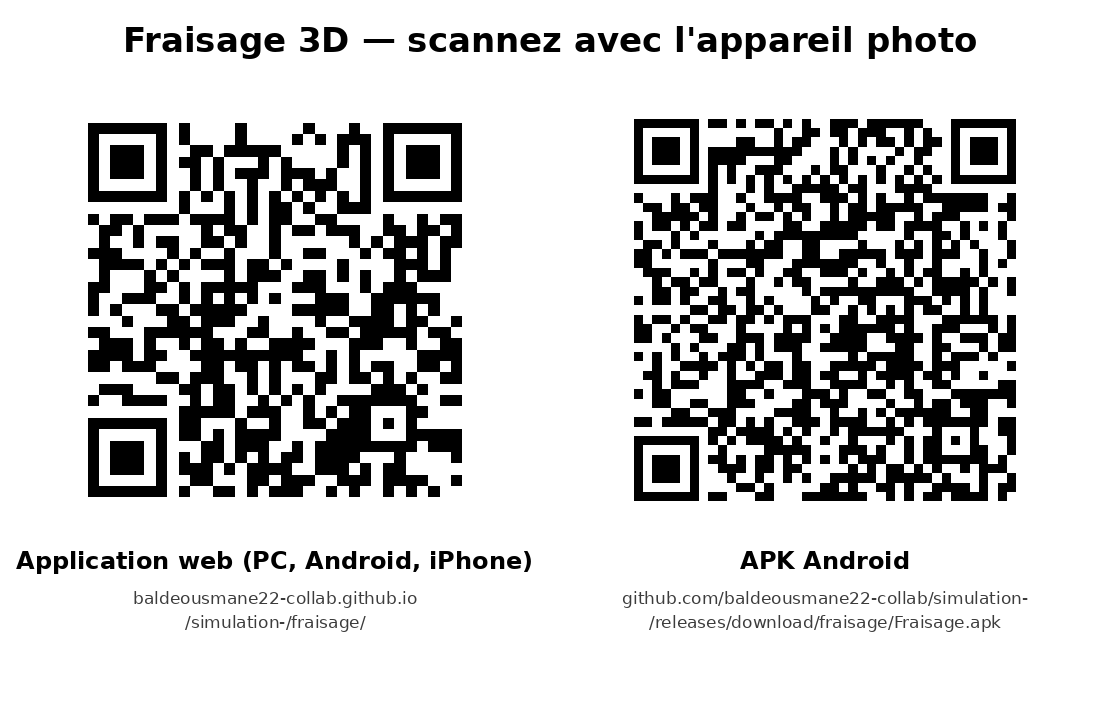
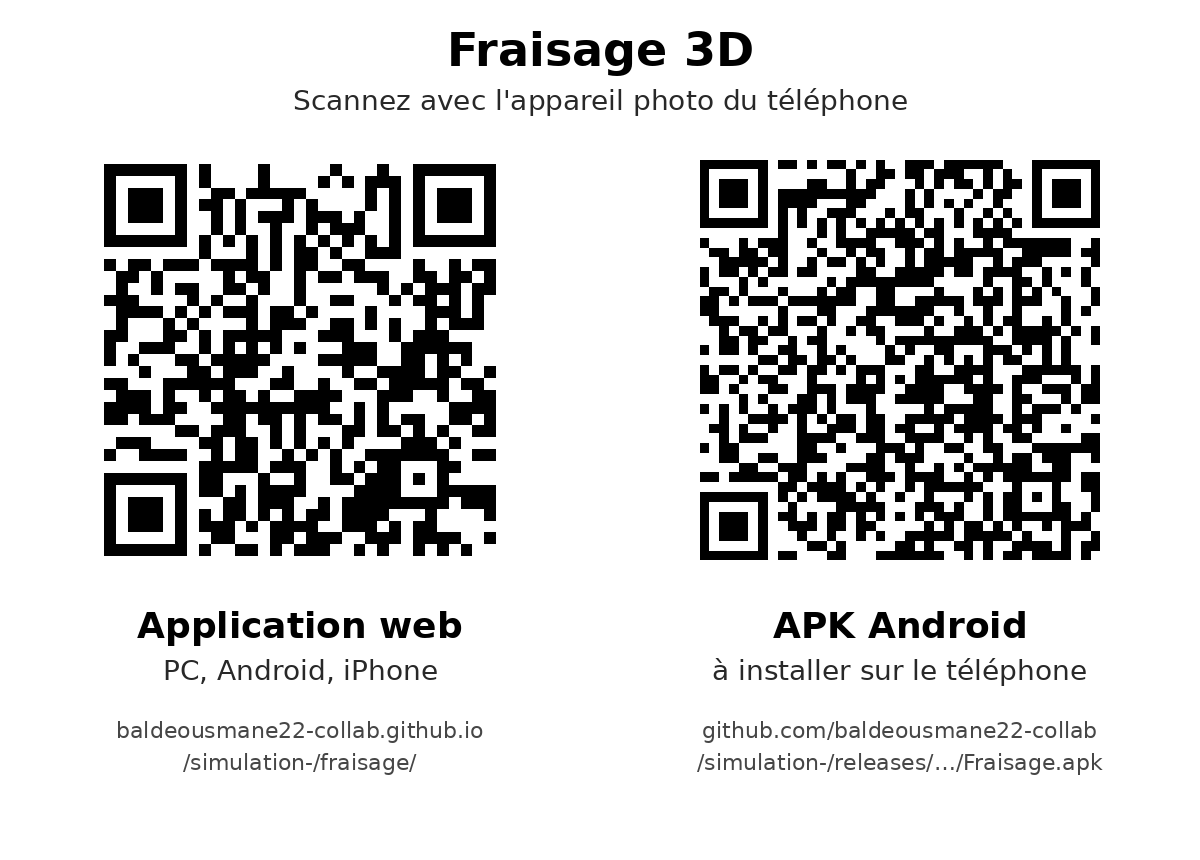
Fraisage 3D : écritures agrandies (appli et QR codes), onglets ajustés sur téléphone
Claude-Session: https://claude.ai/code/session_01Mm1yvHafnPzbhXEF8QHtrN

Changed region(s): [[0.0, 0.0306, 0.9273, 0.7944], [0.5564, 0.825, 0.9273, 0.9167], [0.0927, 0.825, 0.4018, 0.9167]]

diff --git a/fraisage/css/style.css b/fraisage/css/style.css
@@ -4,15 +4,15 @@
 }
 * { box-sizing: border-box; }
 html, body { margin: 0; height: 100%; background: var(--fond); color: var(--texte);
-  font: 15px/1.45 system-ui, -apple-system, "Segoe UI", Roboto, sans-serif; }
+  font: 16.5px/1.45 system-ui, -apple-system, "Segoe UI", Roboto, sans-serif; }
 body { display: flex; flex-direction: column; height: 100dvh; overflow: hidden; }
 button { font: inherit; color: inherit; cursor: pointer; }
 
 .entete { background: var(--fond2); border-bottom: 1px solid var(--bord); padding: 6px 10px 0; padding-top: max(6px, env(safe-area-inset-top)); flex: none; }
-.titre { font-weight: 700; font-size: 17px; display: flex; align-items: center; gap: 6px; }
-.titre small { color: var(--doux); font-weight: 500; font-size: 12px; margin-left: 4px; }
+.titre { font-weight: 700; font-size: 18.5px; display: flex; align-items: center; gap: 6px; }
+.titre small { color: var(--doux); font-weight: 500; font-size: 13.5px; margin-left: 4px; }
 .types { display: flex; gap: 6px; overflow-x: auto; padding: 6px 0 8px; scrollbar-width: thin; }
-.types button { flex: none; background: var(--carte); border: 1px solid var(--bord); border-radius: 999px; padding: 5px 11px; font-size: 13px; white-space: nowrap; }
+.types button { flex: none; background: var(--carte); border: 1px solid var(--bord); border-radius: 999px; padding: 5px 11px; font-size: 14.5px; white-space: nowrap; }
 .types button.actif { background: var(--accent); border-color: var(--accent); color: #111; font-weight: 700; }
 
 .disposition { flex: 1; display: flex; min-height: 0; }
@@ -20,82 +20,82 @@ button { font: inherit; color: inherit; cursor: pointer; }
 #canvas3d { width: 100%; height: 100%; display: block; touch-action: none; }
 .calque-etiq { position: absolute; inset: 0; pointer-events: none; overflow: hidden; }
 .etiq3d { position: absolute; left: 0; top: 0; background: rgba(15, 23, 42, .85); border: 1px solid #475569; border-radius: 6px;
-  padding: 2px 7px; font-size: 12px; white-space: nowrap; will-change: transform; }
+  padding: 2px 7px; font-size: 13.5px; white-space: nowrap; will-change: transform; }
 .etiq3d.menant { border-color: var(--accent); color: #fde68a; }
 .etiq3d.mene { border-color: var(--bleu); color: #bfdbfe; }
 .etiq3d.trois { border-color: var(--vert); color: #bbf7d0; }
 .etiq3d.quatre { border-color: var(--violet); color: #e9d5ff; }
-.nom-type { position: absolute; left: 10px; top: 8px; font-weight: 700; font-size: 15px; text-shadow: 0 1px 3px #000; pointer-events: none; max-width: calc(100% - 190px); }
+.nom-type { position: absolute; left: 10px; top: 8px; font-weight: 700; font-size: 16.5px; text-shadow: 0 1px 3px #000; pointer-events: none; max-width: calc(100% - 190px); }
 .outils { position: absolute; right: 8px; top: 8px; display: flex; gap: 6px; }
-.btn-rond { width: 38px; height: 38px; border-radius: 50%; border: 1px solid var(--bord); background: rgba(22, 33, 59, .9); font-size: 17px; }
+.btn-rond { width: 38px; height: 38px; border-radius: 50%; border: 1px solid var(--bord); background: rgba(22, 33, 59, .9); font-size: 18.5px; }
 .btn-rond[aria-pressed="false"] { opacity: .5; }
 .hud { position: absolute; left: 10px; top: 34px; display: flex; flex-direction: column; gap: 3px; pointer-events: none; }
-.hud div { background: rgba(15, 23, 42, .78); border-radius: 6px; padding: 2px 8px; font-size: 12.5px; width: max-content; max-width: 70vw; }
+.hud div { background: rgba(15, 23, 42, .78); border-radius: 6px; padding: 2px 8px; font-size: 14px; width: max-content; max-width: 70vw; }
 .hud b { color: #fde68a; }
-.vitesse { position: absolute; right: 10px; bottom: 30px; background: rgba(15, 23, 42, .8); border-radius: 999px; padding: 3px 10px; display: flex; align-items: center; gap: 4px; font-size: 14px; }
+.vitesse { position: absolute; right: 10px; bottom: 30px; background: rgba(15, 23, 42, .8); border-radius: 999px; padding: 3px 10px; display: flex; align-items: center; gap: 4px; font-size: 15.5px; }
 .vitesse input { width: 110px; accent-color: var(--accent); }
-.aide3d { position: absolute; left: 0; right: 0; bottom: 6px; text-align: center; font-size: 11px; color: var(--doux); pointer-events: none; }
+.aide3d { position: absolute; left: 0; right: 0; bottom: 6px; text-align: center; font-size: 12.5px; color: var(--doux); pointer-events: none; }
 .info3d { position: absolute; left: 10px; bottom: 30px; max-width: min(320px, 60%); background: rgba(15, 23, 42, .93); border: 1px solid var(--accent);
-  border-radius: 8px; padding: 7px 10px; font-size: 13px; }
+  border-radius: 8px; padding: 7px 10px; font-size: 14.5px; }
 .info3d b { color: #fde68a; display: block; }
 
 .panneau { width: 430px; flex: none; display: flex; flex-direction: column; border-left: 1px solid var(--bord); background: var(--fond2); min-height: 0; }
 .onglets { display: flex; overflow-x: auto; border-bottom: 1px solid var(--bord); flex: none; scrollbar-width: none; }
-.onglets button { flex: 1 0 auto; background: none; border: 0; border-bottom: 3px solid transparent; padding: 9px 9px; font-size: 13px; white-space: nowrap; color: var(--doux); }
+.onglets button { flex: 1 0 auto; background: none; border: 0; border-bottom: 3px solid transparent; padding: 9px 9px; font-size: 14.5px; white-space: nowrap; color: var(--doux); }
 .onglets button.actif { color: var(--texte); border-color: var(--accent); font-weight: 700; }
 .contenu { flex: 1; overflow-y: auto; padding: 10px 12px 30px; -webkit-overflow-scrolling: touch; padding-bottom: max(30px, env(safe-area-inset-bottom)); }
 .page { display: none; }
 .page.actif { display: block; }
-h3 { font-size: 15px; margin: 14px 0 6px; color: #fde68a; }
-.note { color: var(--doux); font-size: 12.5px; margin: 4px 0 8px; }
+h3 { font-size: 16.5px; margin: 14px 0 6px; color: #fde68a; }
+.note { color: var(--doux); font-size: 14px; margin: 4px 0 8px; }
 .btn { background: var(--carte); border: 1px solid var(--bord); border-radius: 8px; padding: 7px 12px; margin: 10px 6px 0 0; }
 .btn.prim { background: var(--accent); border-color: var(--accent); color: #111; font-weight: 700; }
 
 .param { background: var(--carte); border: 1px solid var(--bord); border-radius: 10px; padding: 7px 10px; margin-bottom: 7px; }
-.param label { display: flex; justify-content: space-between; gap: 8px; font-size: 13px; color: var(--doux); }
+.param label { display: flex; justify-content: space-between; gap: 8px; font-size: 14.5px; color: var(--doux); }
 .param label span:last-child { color: var(--texte); font-weight: 700; white-space: nowrap; }
 .param .ligne { display: flex; align-items: center; gap: 8px; margin-top: 4px; }
 .param input[type=range] { flex: 1; accent-color: var(--accent); height: 26px; }
 .param input[type=number], .param select { width: 84px; background: var(--fond); color: var(--texte); border: 1px solid var(--bord); border-radius: 6px; padding: 4px 6px; font: inherit; }
 .param select { width: 100%; }
-.alerte { background: rgba(239, 68, 68, .12); border: 1px solid rgba(239, 68, 68, .5); border-radius: 8px; padding: 7px 10px; margin: 6px 0; font-size: 13px; }
+.alerte { background: rgba(239, 68, 68, .12); border: 1px solid rgba(239, 68, 68, .5); border-radius: 8px; padding: 7px 10px; margin: 6px 0; font-size: 14.5px; }
 .resume { display: grid; grid-template-columns: 1fr 1fr; gap: 6px; }
-.resume div { background: var(--carte); border: 1px solid var(--bord); border-radius: 8px; padding: 6px 8px; font-size: 12px; color: var(--doux); }
-.resume b { display: block; color: var(--texte); font-size: 15px; }
+.resume div { background: var(--carte); border: 1px solid var(--bord); border-radius: 8px; padding: 6px 8px; font-size: 13.5px; color: var(--doux); }
+.resume b { display: block; color: var(--texte); font-size: 16.5px; }
 
-.tab-calc { width: 100%; border-collapse: collapse; font-size: 13px; }
-.tab-calc th { text-align: left; background: #1e293b; color: #fde68a; padding: 6px 8px; font-size: 13px; }
+.tab-calc { width: 100%; border-collapse: collapse; font-size: 14.5px; }
+.tab-calc th { text-align: left; background: #1e293b; color: #fde68a; padding: 6px 8px; font-size: 14.5px; }
 .tab-calc td { padding: 5px 8px; border-bottom: 1px solid var(--bord); vertical-align: top; }
-.tab-calc .g { color: var(--doux); font-size: 12px; }
+.tab-calc .g { color: var(--doux); font-size: 13.5px; }
 .tab-calc .f { font-family: ui-monospace, Consolas, monospace; color: #93c5fd; }
-.tab-calc .an { color: var(--doux); font-size: 12px; }
+.tab-calc .an { color: var(--doux); font-size: 13.5px; }
 .tab-calc .r { font-weight: 700; white-space: nowrap; text-align: right; }
 
 .choix-profil { display: flex; gap: 6px; flex-wrap: wrap; }
-.choix-profil button { background: var(--carte); border: 1px solid var(--bord); border-radius: 999px; padding: 4px 10px; font-size: 13px; }
+.choix-profil button { background: var(--carte); border: 1px solid var(--bord); border-radius: 999px; padding: 4px 10px; font-size: 14.5px; }
 .choix-profil button.actif { background: var(--bleu); border-color: var(--bleu); font-weight: 700; }
 .cadre-svg { margin-top: 8px; background: #f8fafc; border-radius: 10px; overflow: hidden; touch-action: none; aspect-ratio: 1 / 0.92; }
 .cadre-svg svg { width: 100%; height: 100%; display: block; }
-.leg { display: grid; grid-template-columns: auto 1fr auto; gap: 3px 8px; font-size: 13px; align-items: center; }
+.leg { display: grid; grid-template-columns: auto 1fr auto; gap: 3px 8px; font-size: 14.5px; align-items: center; }
 .leg i { width: 18px; height: 0; border-top: 2px solid; display: inline-block; }
 
 .fiche p { margin: 6px 0; }
 .fiche ul { margin: 4px 0 8px; padding-left: 20px; }
-.encadre { background: rgba(245, 158, 11, .1); border-left: 4px solid var(--accent); border-radius: 6px; padding: 7px 10px; margin: 8px 0; font-size: 14px; }
+.encadre { background: rgba(245, 158, 11, .1); border-left: 4px solid var(--accent); border-radius: 6px; padding: 7px 10px; margin: 8px 0; font-size: 15.5px; }
 .colonnes { display: grid; grid-template-columns: 1fr 1fr; gap: 8px; }
-.colonnes > div { background: var(--carte); border-radius: 8px; padding: 6px 8px; font-size: 13px; }
+.colonnes > div { background: var(--carte); border-radius: 8px; padding: 6px 8px; font-size: 14.5px; }
 .colonnes ul { padding-left: 16px; margin: 4px 0; }
-.voc { width: 100%; border-collapse: collapse; font-size: 13px; }
+.voc { width: 100%; border-collapse: collapse; font-size: 14.5px; }
 .voc td { border-bottom: 1px solid var(--bord); padding: 4px 6px; vertical-align: top; }
 .voc td:first-child { font-weight: 700; white-space: nowrap; color: #fde68a; }
 .voc td.f { font-family: ui-monospace, Consolas, monospace; color: #93c5fd; }
 
 .exo { background: var(--carte); border: 1px solid var(--bord); border-radius: 10px; padding: 8px 10px; margin-bottom: 8px; }
-.exo h4 { margin: 0 0 4px; font-size: 14px; }
+.exo h4 { margin: 0 0 4px; font-size: 15.5px; }
 .exo ol { margin: 6px 0 0; padding-left: 20px; }
 .exo .corr { display: none; background: rgba(34, 197, 94, .08); border-radius: 8px; padding: 4px 8px; margin-top: 6px; }
 .exo.ouvert .corr { display: block; }
-.saisie { display: grid; grid-template-columns: 1fr 96px 26px; gap: 5px; align-items: center; font-size: 13px; margin-top: 6px; }
+.saisie { display: grid; grid-template-columns: 1fr 96px 26px; gap: 5px; align-items: center; font-size: 14.5px; margin-top: 6px; }
 .saisie input { background: var(--fond); color: var(--texte); border: 1px solid var(--bord); border-radius: 6px; padding: 4px 6px; font: inherit; width: 100%; }
 .ok { color: var(--vert); } .ko { color: var(--rouge); }
 
@@ -104,16 +104,16 @@ h3 { font-size: 15px; margin: 14px 0 6px; color: #fde68a; }
 .question button { display: block; width: 100%; text-align: left; background: var(--fond); border: 1px solid var(--bord); border-radius: 8px; padding: 6px 9px; margin: 4px 0; }
 .question button.bon { background: rgba(34, 197, 94, .2); border-color: var(--vert); }
 .question button.faux { background: rgba(239, 68, 68, .2); border-color: var(--rouge); }
-.score { font-size: 17px; font-weight: 700; margin: 8px 0; }
+.score { font-size: 18.5px; font-weight: 700; margin: 8px 0; }
 
 body.plein .panneau, body.plein .entete { display: none; }
 /* Barre de commandes : visible seulement en plein écran */
 .commandes { display: none; position: absolute; left: 50%; transform: translateX(-50%); bottom: max(10px, env(safe-area-inset-bottom)); gap: 6px; align-items: center;
   background: rgba(15, 23, 42, .88); border: 1px solid var(--bord); border-radius: 14px; padding: 5px 6px; max-width: calc(100% - 12px); flex-wrap: nowrap; justify-content: center; }
 body.plein .commandes { display: flex; }
-.btn-cmd { min-width: 38px; height: 36px; border-radius: 999px; border: 1px solid var(--bord); background: var(--carte); padding: 0 10px; font-size: 14px; white-space: nowrap; }
+.btn-cmd { min-width: 38px; height: 36px; border-radius: 999px; border: 1px solid var(--bord); background: var(--carte); padding: 0 10px; font-size: 15.5px; white-space: nowrap; }
 .btn-cmd.actif { background: var(--bleu); border-color: var(--bleu); }
-.commandes select { height: 36px; background: var(--fond); color: var(--texte); border: 1px solid var(--bord); border-radius: 999px; padding: 0 10px; font: inherit; font-size: 14px; flex: 1 1 auto; min-width: 0; max-width: 220px; }
+.commandes select { height: 36px; background: var(--fond); color: var(--texte); border: 1px solid var(--bord); border-radius: 999px; padding: 0 10px; font: inherit; font-size: 15.5px; flex: 1 1 auto; min-width: 0; max-width: 220px; }
 body.plein .phase { bottom: 104px; }
 body.plein .vitesse { bottom: 58px; }
 body.plein .aide3d { display: none; }
@@ -132,7 +132,7 @@ body.plein .hud { top: max(34px, calc(env(safe-area-inset-top) + 28px)); }
   .aide3d { display: none; }
   .nom-type { display: none; }
   .hud { top: 8px; }
-  .hud div { font-size: 11.5px; }
+  .hud div { font-size: 13px; }
   .vitesse { bottom: 8px; }
   .info3d { bottom: 48px; max-width: 80%; }
 }
@@ -147,45 +147,46 @@ body.plein .hud { top: max(34px, calc(env(safe-area-inset-top) + 28px)); }
 
 /* ---- Fraisage ---- */
 .phase { position: absolute; left: 10px; right: 10px; bottom: 62px; display: flex; flex-direction: column; align-items: center; gap: 4px; pointer-events: none; }
-.phase span { background: rgba(15, 23, 42, .85); border: 1px solid var(--bord); border-radius: 8px; padding: 3px 10px; font-size: 13px; font-weight: 600; text-align: center; max-width: 100%; }
+.phase span { background: rgba(15, 23, 42, .85); border: 1px solid var(--bord); border-radius: 8px; padding: 3px 10px; font-size: 14.5px; font-weight: 600; text-align: center; max-width: 100%; }
 .phase span.coupe { border-color: var(--accent); color: #fde68a; }
 .phase span.change { border-color: var(--violet); color: #e9d5ff; }
 .phase span.fin { border-color: var(--vert); color: #bbf7d0; }
 .barre { width: min(320px, 70%); height: 5px; background: rgba(148, 163, 184, .25); border-radius: 3px; overflow: hidden; }
 .barre i { display: block; height: 100%; width: 0; background: var(--accent); }
 .bascule { display: flex; gap: 6px; margin-top: 4px; }
-.bascule button { flex: 1; background: var(--fond); border: 1px solid var(--bord); border-radius: 8px; padding: 6px; font-size: 13px; }
+.bascule button { flex: 1; background: var(--fond); border: 1px solid var(--bord); border-radius: 8px; padding: 6px; font-size: 14.5px; }
 .bascule button.actif { background: var(--bleu); border-color: var(--bleu); font-weight: 700; }
 .etapes { margin: 4px 0 8px; padding-left: 22px; }
 .etapes li { margin: 3px 0; }
-.question .expl { background: rgba(59, 130, 246, .12); border-radius: 8px; padding: 5px 8px; font-size: 13px; margin-top: 4px; }
+.question .expl { background: rgba(59, 130, 246, .12); border-radius: 8px; padding: 5px 8px; font-size: 14.5px; margin-top: 4px; }
 details.chap { background: var(--carte); border: 1px solid var(--bord); border-radius: 10px; margin-bottom: 7px; padding: 4px 10px; }
 details.chap summary { font-weight: 700; cursor: pointer; padding: 5px 0; color: #fde68a; }
 details.chap[open] summary { border-bottom: 1px solid var(--bord); margin-bottom: 4px; }
 .carte-op { display: grid; grid-template-columns: 1fr 1fr; gap: 6px; margin: 6px 0; }
-.carte-op div { background: var(--carte); border: 1px solid var(--bord); border-radius: 8px; padding: 6px 8px; font-size: 12.5px; color: var(--doux); }
-.carte-op b { display: block; color: var(--texte); font-size: 13px; }
+.carte-op div { background: var(--carte); border: 1px solid var(--bord); border-radius: 8px; padding: 6px 8px; font-size: 14px; color: var(--doux); }
+.carte-op b { display: block; color: var(--texte); font-size: 14.5px; }
 @media (max-width: 820px) and (orientation: portrait), (max-width: 600px) {
   .phase { bottom: 44px; }
   .hud { top: 54px; }
   body.plein .hud { top: 54px; }
   body.plein .commandes { gap: 4px; width: calc(100% - 12px); }
+  .onglets button { padding: 9px 5px; font-size: 14px; letter-spacing: -0.2px; }
   .btn-cmd { min-width: 34px; padding: 0 8px; }
   .btn-cmd .txt { display: none; }
   body.plein .vitesse { bottom: 60px; right: 50%; transform: translateX(50%); }
   body.plein .phase { bottom: 100px; }
   body.plein .nom-type { display: none; }
   .outils { gap: 4px; }
-  .btn-rond { width: 36px; height: 36px; font-size: 16px; }
+  .btn-rond { width: 36px; height: 36px; font-size: 17.5px; }
   #v-mode { white-space: normal; text-align: right; }
-  .phase span { font-size: 12px; }
+  .phase span { font-size: 13.5px; }
 }
 
 /* Paramètres : dans le panneau ; sur la 3D seulement si demandé (bouton 📊) */
 .hud { display: none; }
 body.hud-visible .hud { display: flex; }
-.infos { display: flex; flex-wrap: wrap; gap: 4px 6px; padding: 6px 10px; border-bottom: 1px solid var(--bord); background: var(--fond); font-size: 12.5px; color: var(--doux); flex: none; }
+.infos { display: flex; flex-wrap: wrap; gap: 4px 6px; padding: 6px 10px; border-bottom: 1px solid var(--bord); background: var(--fond); font-size: 14px; color: var(--doux); flex: none; }
 .infos span { background: var(--carte); border: 1px solid var(--bord); border-radius: 999px; padding: 2px 8px; white-space: nowrap; }
 .infos b { color: #fde68a; }
 
-.sans3d { position: absolute; inset: 0; display: flex; align-items: center; justify-content: center; text-align: center; padding: 24px; color: var(--texte); background: #0b1220; font-size: 15px; line-height: 1.5; }
+.sans3d { position: absolute; inset: 0; display: flex; align-items: center; justify-content: center; text-align: center; padding: 24px; color: var(--texte); background: #0b1220; font-size: 16.5px; line-height: 1.5; }
